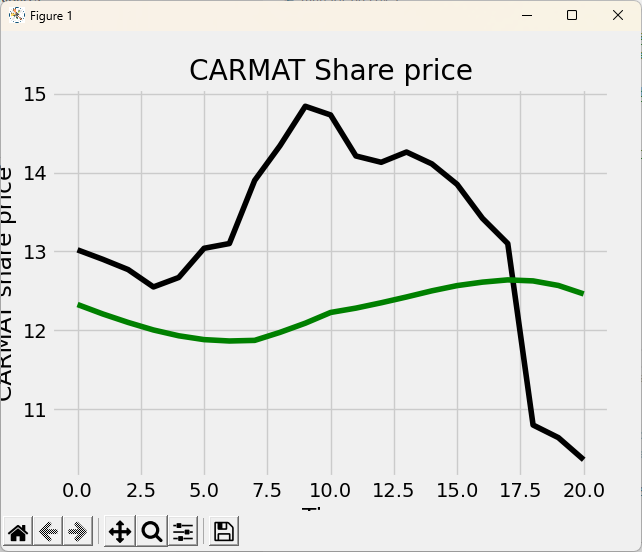
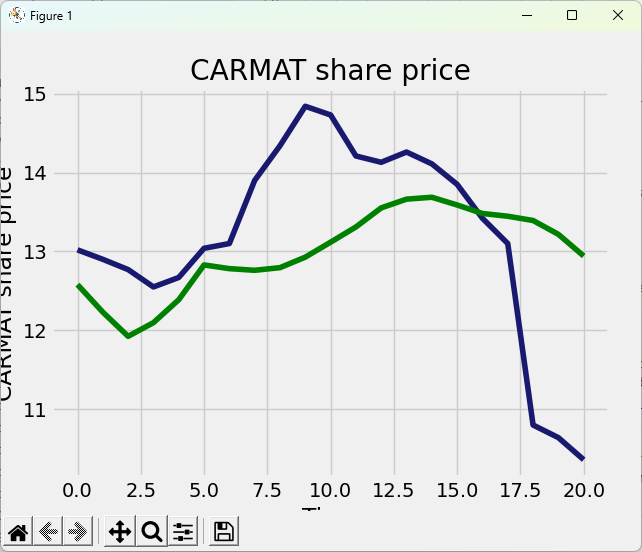
remove things don't work

diff --git a/matPlot-005.py b/matPlot-005.py
@@ -79,7 +79,7 @@ scaler = MinMaxScaler(feature_range=(0, 1))
 scaled_data = scaler.fit_transform(numpy.reshape(closep, (-1, 1)))
 
 # how many days we want to look at the past to predict
-prediction_days = 10
+prediction_days = 5
 
 # defining two empty lists for preparing the training data
 x_train = []
@@ -144,24 +144,24 @@ plt.ylabel(f'{COMPAGNY} share price')
 plt.legend
 plt.show()
 
-# Predict data for tomorrow using real data
-#
-all_days = len(closep)
-real_data = []
-for x in range(0, all_days):
-    real_data.append(closep[x])
+# # Predict data for tomorrow using real data
+# #
+# all_days = len(closep)
+# real_data = []
+# for x in range(0, all_days):
+#     real_data.append(closep[x])
 
-real_data = numpy.array(real_data)
-real_data = numpy.reshape(real_data, (all_days, 0, 1))
+# real_data = numpy.array(real_data)
+# real_data = numpy.reshape(real_data, (all_days, 0, 1))
 
-prediction = model.predict(real_data)
-prediction = scaler.inverse_transform(prediction)
+# prediction = model.predict(real_data)
+# prediction = scaler.inverse_transform(prediction)
 
-# Plot the Predictions
-plt.plot(actual_prices, color='midnightblue', label=f"Actual {COMPAGNY} price")
-plt.plot(prediction, color='green', label=f"Predicted {COMPAGNY} Price")
-plt.title(f"{COMPAGNY} share price")
-plt.xlabel('Time')
-plt.ylabel(f'{COMPAGNY} share price')
-plt.legend
-plt.show()
+# # Plot the Predictions
+# plt.plot(actual_prices, color='midnightblue', label=f"Actual {COMPAGNY} price")
+# plt.plot(prediction, color='green', label=f"Predicted {COMPAGNY} Price")
+# plt.title(f"{COMPAGNY} share price")
+# plt.xlabel('Time')
+# plt.ylabel(f'{COMPAGNY} share price')
+# plt.legend
+# plt.show()
